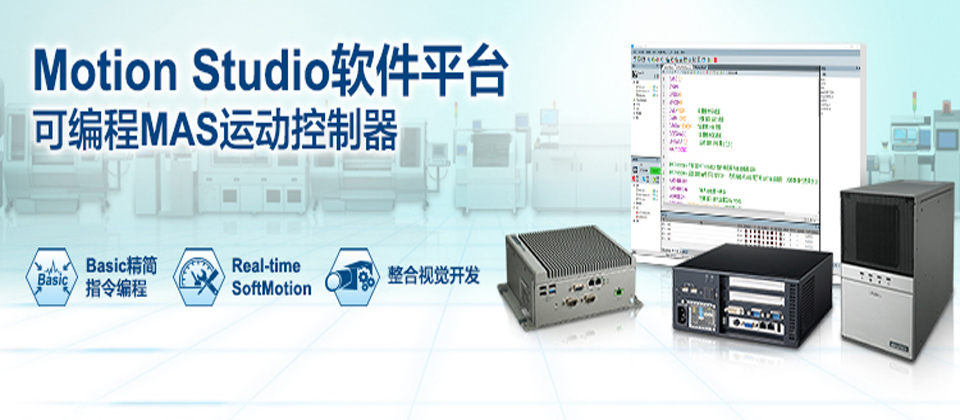
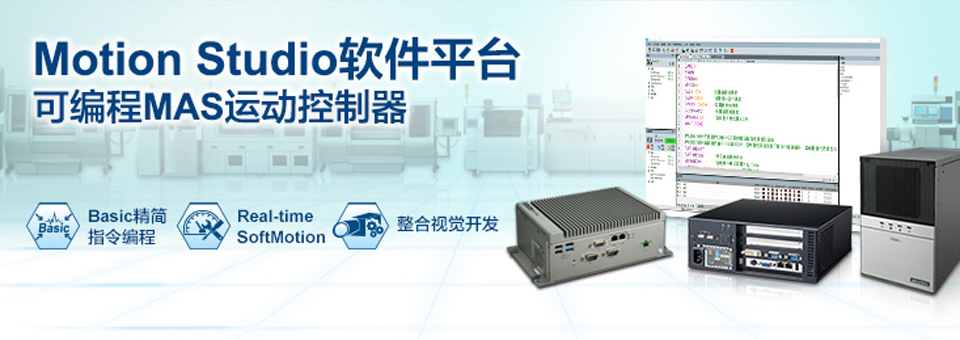
部分修改

diff --git a/index.html b/index.html
@@ -109,13 +109,13 @@
 <div class="container">
     <div class="row">
         <div class="col-md-offset-1 col-md-10 col-lg-offset-1 col-lg-10">
-            <nav class="navbar navbar-default" role="navigation" style="background-color:#00669f;margin: auto auto">
-                <div class="navbar-header " >
-                    <a class="navbar-brand" href="#" style="color:white">研华MAS控制器</a>
-                </div>
-            </nav>
+            <div style="background-color:#00669f;margin: auto auto;height:68px;">
+                <a href="#" style="color:white;">
+					<img src="img/logo.png" alt="" width="150" height="68px" />
+				</a>
+            </div>
             <div style="margin-top: 5px">
-                <img src="img/title.png" width="100%">
+                <img src="img/title.png" width="100%" / >
             </div>
 
             <!--<p></p>-->
